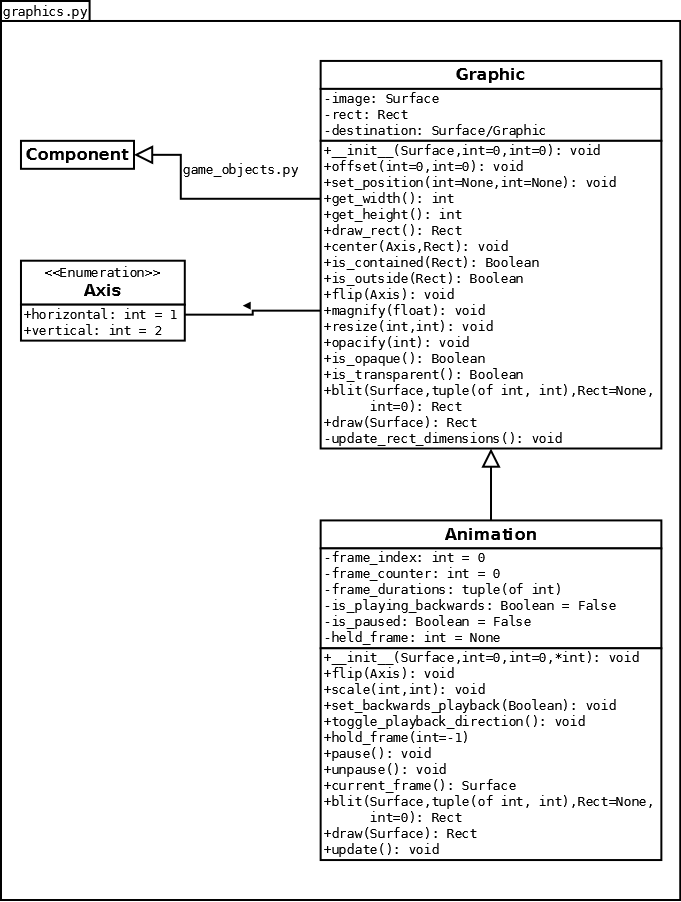
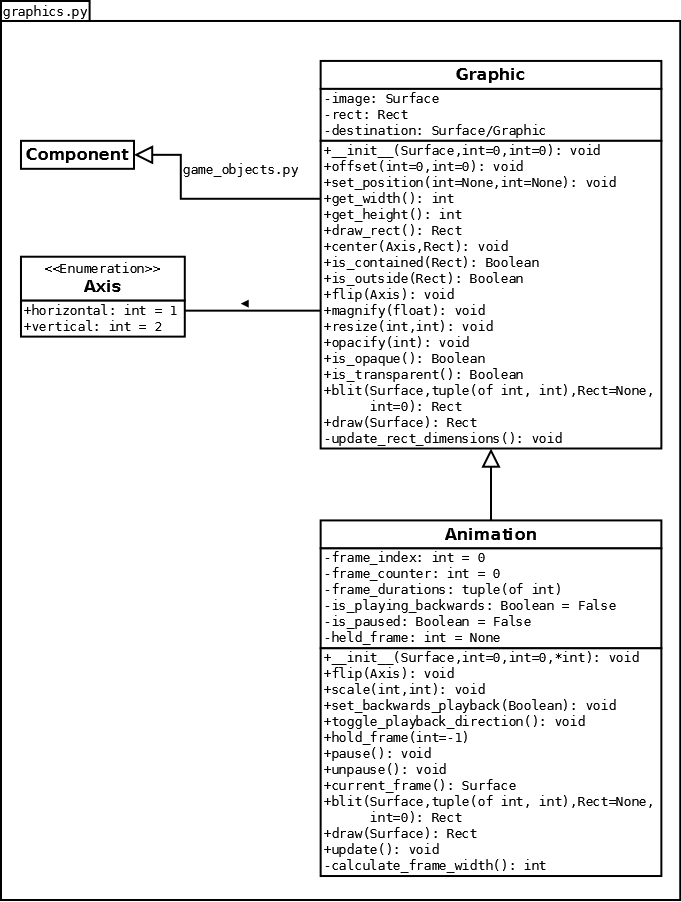
Animation: Set _rect.width to the frame width
In most cases, the width of the entire sprite sheet is irrelevant; the
width of one frame is far more important, since it measures what will
actually be shown on-screen.

This also allows the API of Animation to match Graphic's, since most
other methods dealing with width use _rect.width.

Changed region(s): [[0.0308, 0.2794, 0.37, 0.4035], [0.4626, 0.9313, 0.8018, 0.9933]]

diff --git a/materials/graphics.py b/materials/graphics.py
@@ -324,6 +324,13 @@ class Animation(Graphic):
         self._frame_index = 0
         self._frame_counter = 0
         self._frame_durations = frame_durations
+        self._rect.width = self._calculate_frame_width()
         self._is_playing_backwards = False
         self._is_paused = False
         self._held_frame = -1
+
+    def _calculate_frame_width(self):
+        """Return the width, in pixels, of a single frame in this
+        Animation.
+        """
+        return self._image.get_width() / len(self._frame_durations)
